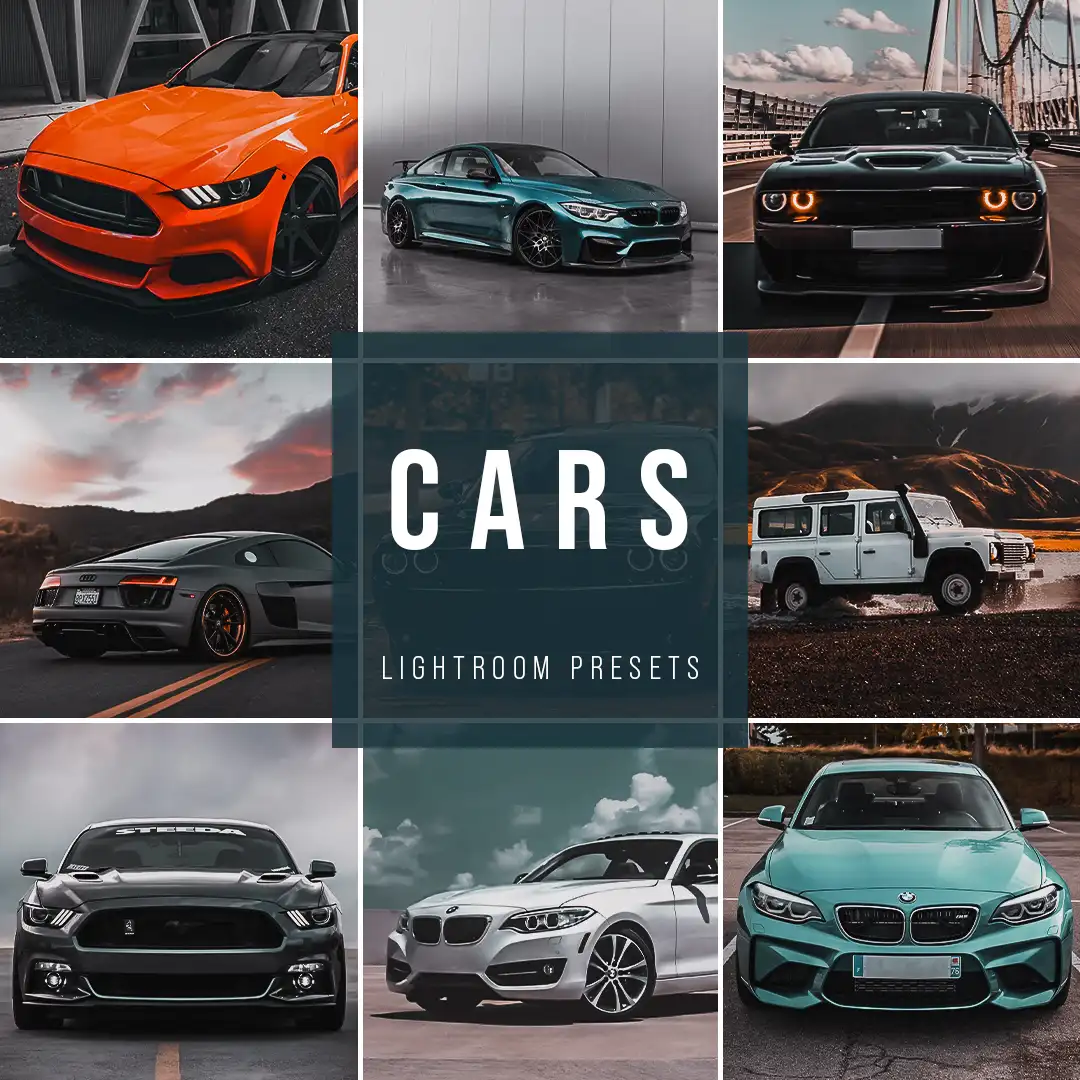
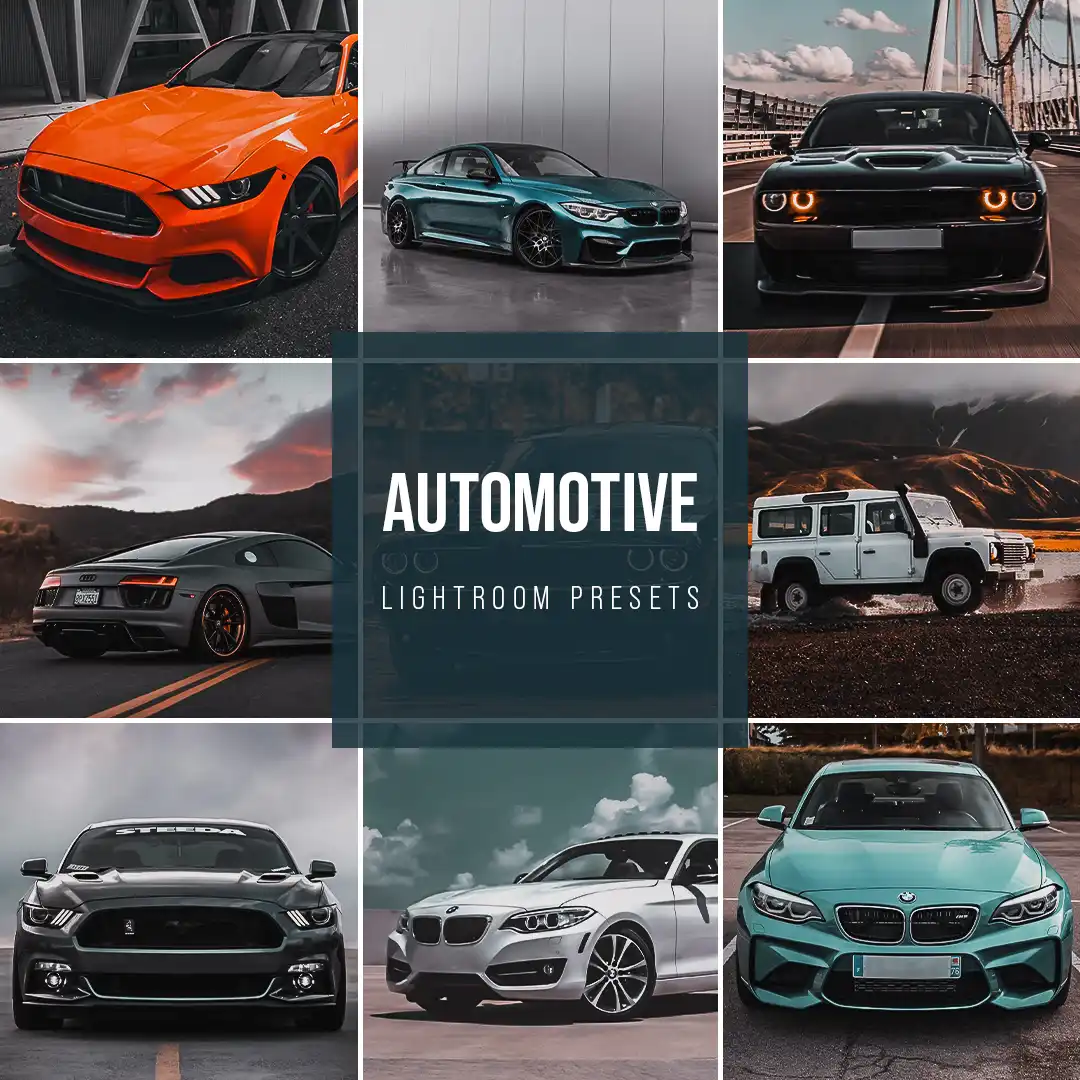
não aguento mais

diff --git a/index.html b/index.html
@@ -242,16 +242,17 @@
       <div class="cards">
         <article class="card">
           <h3 class="card__title">
-            Wedding Day <p class="card__count badge">14 presets</p>
+            Moody Wedding 
+            <!-- <p class="card__count badge">30 presets</p> -->
           </h3>
           <div class="carousel" aria-roledescription="carousel">
             <div class="carousel__track" role="group" aria-label="Wedding Day previews">
-              <img src="/img/wedding-1.jpg" alt="Wedding preset preview 1" class="carousel__slide" />
+              <img src="/img/wedding-1.webp" alt="Wedding preset preview 1" class="carousel__slide" />
               <img src="/img/wedding-2.jpg" alt="Wedding preset preview 2" class="carousel__slide" />
               <img src="/img/wedding-3.jpg" alt="Wedding preset preview 3" class="carousel__slide" />
             </div>
             <div class="carousel__thumbs">
-              <button><img src="/img/wedding-1.jpg" alt=""></button>
+              <button><img src="/img/wedding-1.webp" alt=""></button>
               <button><img src="/img/wedding-2.jpg" alt=""></button>
               <button><img src="/img/wedding-3.jpg" alt=""></button>
             </div>
@@ -262,7 +263,8 @@
 
 
         <article class="card">
-          <h3 class="card__title">Beach Day <p class="card__count badge">10 presets</p>
+          <h3 class="card__title">Beach Vibes 
+            <!-- <p class="card__count badge">10 presets</p> -->
           </h3>
           <div class="carousel" aria-roledescription="carousel">
             <div class="carousel__track" role="group" aria-label="Wedding Day previews">
@@ -280,7 +282,8 @@
 
 
         <article class="card">
-          <h3 class="card__title">Dark Moody <p class="card__count badge">14 presets</p>
+          <h3 class="card__title">Dark Moody 
+            <!-- <p class="card__count badge">14 presets</p> -->
             <h3>
               <div class="carousel" aria-roledescription="carousel">
                 <div class="carousel__track" role="group" aria-label="Wedding Day previews">
@@ -299,7 +302,8 @@
 
 
         <article class="card">
-          <h3 class="card__title">Skin Retouch <p class="card__count badge">24 presets</p>
+          <h3 class="card__title">Skin Retouch 
+            <!-- <p class="card__count badge">24 presets</p> -->
           </h3>
           <div class="carousel" aria-roledescription="carousel">
             <div class="carousel__track" role="group" aria-label="Wedding Day previews">
@@ -318,7 +322,8 @@
 
 
         <article class="card">
-          <h3 class="card__title">Golden Sunset <p class="card__count badge">10 presets</p>
+          <h3 class="card__title">Golden Sunset 
+            <!-- <p class="card__count badge">10 presets</p> -->
           </h3>
           <div class="carousel" aria-roledescription="carousel">
             <div class="carousel__track" role="group" aria-label="Wedding Day previews">
@@ -337,7 +342,8 @@
 
 
         <article class="card">
-          <h3 class="card__title">Black & White <p class="card__count badge">12 presets</p>
+          <h3 class="card__title">Black & White 
+            <!-- <p class="card__count badge">22 presets</p> -->
           </h3>
           <div class="carousel" aria-roledescription="carousel">
             <div class="carousel__track" role="group" aria-label="Wedding Day previews">
@@ -354,27 +360,11 @@
         </article>
 
 
-        <article class="card">
-          <h3 class="card__title">Food Retouch <p class="card__count badge">22 presets</p>
-          </h3>
-          <div class="carousel" aria-roledescription="carousel">
-            <div class="carousel__track" role="group" aria-label="Wedding Day previews">
-              <img src="/img/food-1.webp" alt="Wedding preset preview 1" class="carousel__slide" />
-              <img src="/img/food-2.webp" alt="Wedding preset preview 2" class="carousel__slide" />
-              <img src="/img/food-3.webp" alt="Wedding preset preview 3" class="carousel__slide" />
-            </div>
-            <div class="carousel__thumbs">
-              <button><img src="/img/food-1.webp" alt=""></button>
-              <button><img src="/img/food-2.webp" alt=""></button>
-              <button><img src="/img/food-3.webp" alt=""></button>
-            </div>
-          </div>
-        </article>
-
 
 
         <article class="card">
-          <h3 class="card__title">Vintage <p class="card__count badge">18 presets</p>
+          <h3 class="card__title">Vintage Vibes 
+            <!-- <p class="card__count badge">18 presets</p> -->
           </h3>
           <div class="carousel" aria-roledescription="carousel">
             <div class="carousel__track" role="group" aria-label="Wedding Day previews">
@@ -393,7 +383,8 @@
 
 
         <article class="card">
-          <h3 class="card__title">Autumn Tones <p class="card__count badge">14 presets</p>
+          <h3 class="card__title">Autumn Tones 
+            <!-- <p class="card__count badge">14 presets</p> -->
           </h3>
           <div class="carousel" aria-roledescription="carousel">
             <div class="carousel__track" role="group" aria-label="Wedding Day previews">
@@ -409,26 +400,11 @@
           </div>
         </article>
 
-        <article class="card">
-          <h3 class="card__title">Cinematic Moody <p class="card__count badge">20 presets</p>
-          </h3>
-          <div class="carousel" aria-roledescription="carousel">
-            <div class="carousel__track" role="group" aria-label="Wedding Day previews">
-              <img src="/img/cine-1.webp" alt="Wedding preset preview 1" class="carousel__slide" />
-              <img src="/img/cine-2.webp" alt="Wedding preset preview 2" class="carousel__slide" />
-              <img src="/img/cine-3.webp" alt="Wedding preset preview 3" class="carousel__slide" />
-            </div>
-            <div class="carousel__thumbs">
-              <button><img src="/img/cine-1.webp" alt=""></button>
-              <button><img src="/img/cine-2.webp" alt=""></button>
-              <button><img src="/img/cine-3.webp" alt=""></button>
-            </div>
-          </div>
-        </article>
 
 
         <article class="card">
-          <h3 class="card__title">Cars<p class="card__count badge">20 presets</p>
+          <h3 class="card__title">Automotive
+            <!-- <p class="card__count badge">32 presets</p> -->
           </h3>
           <div class="carousel" aria-roledescription="carousel">
             <div class="carousel__track" role="group" aria-label="Wedding Day previews">
@@ -445,7 +421,8 @@
         </article>
 
         <article class="card">
-          <h3 class="card__title">Summer<p class="card__count badge">14 presets</p>
+          <h3 class="card__title">Summer Vibes
+            <!-- <p class="card__count badge">15 presets</p> -->
           </h3>
           <div class="carousel" aria-roledescription="carousel">
             <div class="carousel__track" role="group" aria-label="Wedding Day previews">
@@ -462,7 +439,8 @@
         </article>
 
         <article class="card">
-          <h3 class="card__title">Bright & Cream<p class="card__count badge">10 presets</p>
+          <h3 class="card__title">Bright & Cream
+            <!-- <p class="card__count badge">10 presets</p> -->
           </h3>
           <div class="carousel" aria-roledescription="carousel">
             <div class="carousel__track" role="group" aria-label="Wedding Day previews">
@@ -479,7 +457,8 @@
         </article>
 
         <article class="card">
-          <h3 class="card__title">Minimal White<p class="card__count badge">12 presets</p>
+          <h3 class="card__title">Minimal White
+            <!-- <p class="card__count badge">12 presets</p> -->
           </h3>
           <div class="carousel" aria-roledescription="carousel">
             <div class="carousel__track" role="group" aria-label="Wedding Day previews">
@@ -495,7 +474,7 @@
           </div>
         </article>
 
-        <article class="card">
+        <!-- <article class="card">
           <h3 class="card__title">Moody Wedding<p class="card__count badge">12 presets</p>
           </h3>
           <div class="carousel" aria-roledescription="carousel">
@@ -511,7 +490,7 @@
             </div>
           </div>
         </article>
-      </div>
+      </div> -->
 
       <!-- <div class="presets__cta ">
         <a href="#ret_oferta" class="hero__btn" aria-label="Quiero asegurar 80% de descuento ahora">

diff --git a/style.css b/style.css
@@ -200,7 +200,7 @@ body {
 /* CTA */
 .hero__btn {
   display: inline-block;
-  background: linear-gradient(45deg, #833ab4, #fd1d1d, #fcb045);
+  background: linear-gradient(45deg, #3ab46d, #45fcc8, #86fd1d);
   color: #fff;
   font-size: 1.25rem;
   font-weight: 800;
@@ -682,7 +682,7 @@ body {
 
 @media (max-width: 768px) {
   .card__title {
-    font-size: 1.2rem;
+    font-size: 1.5rem;
     font-weight: 500;
   }
 }
@@ -1037,15 +1037,15 @@ body {
 @keyframes pulse {
   0% {
     transform: scale(1);
-    box-shadow: 0 0 0 0 rgba(255, 0, 110, 0.6); /* cor inicial (rosa do gradiente) */
+    box-shadow: 0 0 0 0 rgba(0, 255, 51, 0.6); /* cor inicial (rosa do gradiente) */
   }
   70% {
     transform: scale(1.05);
-    box-shadow: 0 0 0 15px rgba(255, 0, 110, 0);
+    box-shadow: 0 0 0 15px rgba(0, 255, 34, 0);
   }
   100% {
     transform: scale(1);
-    box-shadow: 0 0 0 0 rgba(255, 0, 110, 0);
+    box-shadow: 0 0 0 0 rgba(9, 255, 0, 0);
   }
 }
 
